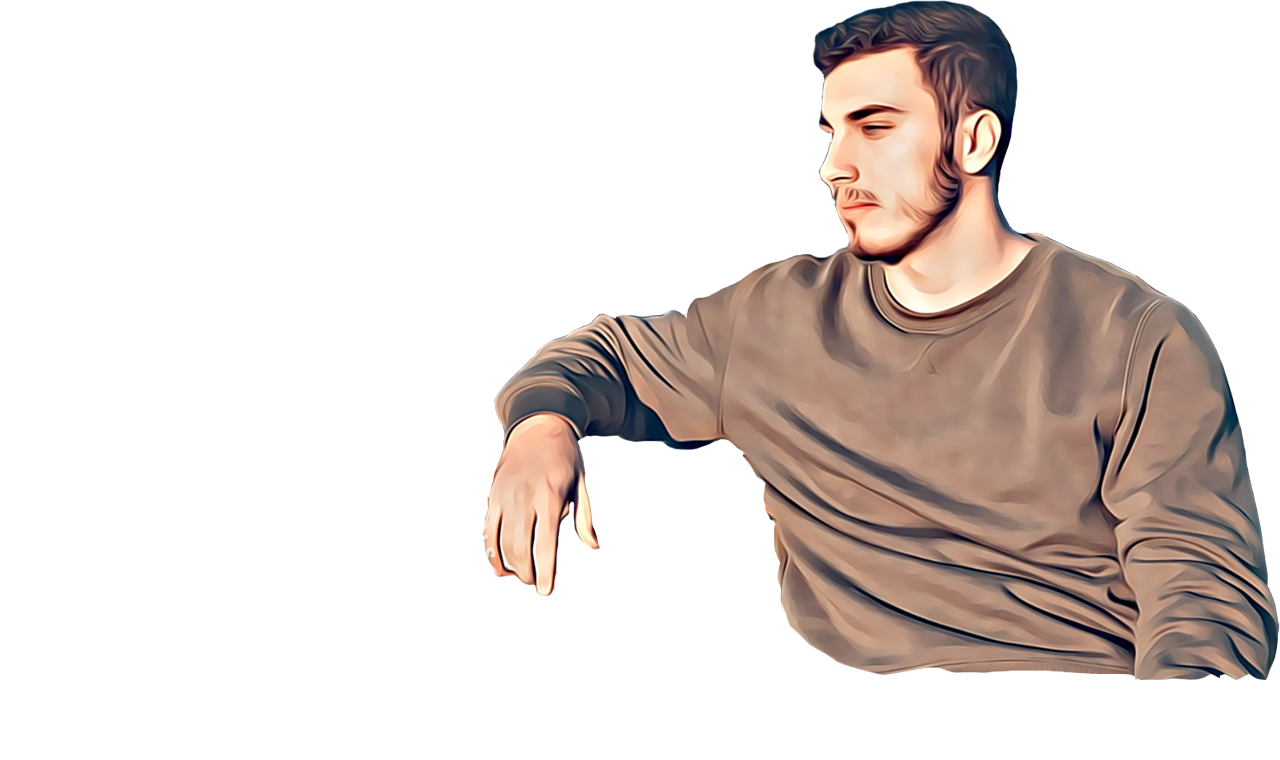
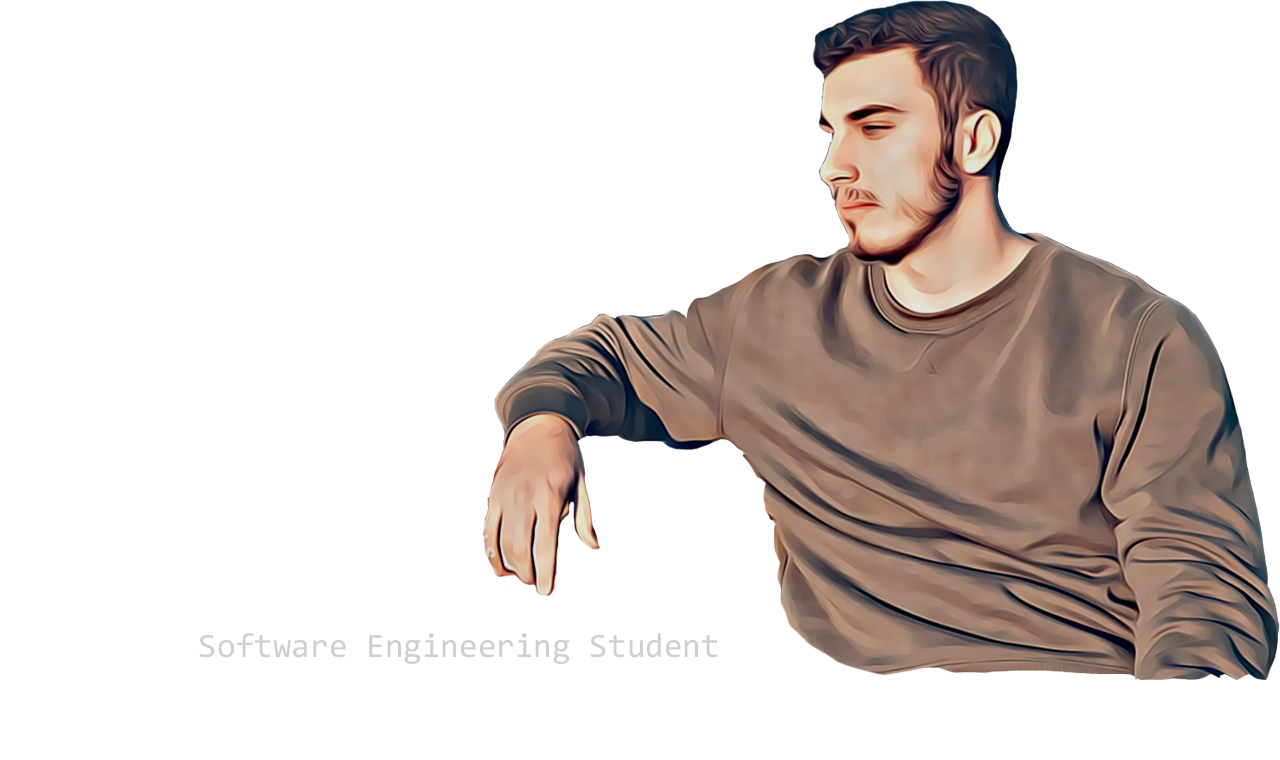
AddPhotos

diff --git a/index.html b/index.html
@@ -16,10 +16,14 @@
         <a href="https://www.instagram.com/zoljann/" target="_blank"><img src="images/icons/instagram.png" alt="instagram"></a>
         <a href="https://www.facebook.com/zolja123/" target="_blank"><img src="images/icons/facebook.png" alt="facebook"></a>
     </div>
-
     <div class="centerDiv">
       <section class="middlePart">
           <img src="images/me.png" alt="me" id="photo">
+          <div class="box">
+            <button>jedan</button>
+            <button>dva</button>
+            <button>tri</button>
+          </div>
           <p id="opis">eeeeeedit</p>
       </section>
     </div>

diff --git a/style.css b/style.css
@@ -16,7 +16,25 @@ body, html{
     display: table-cell;
     vertical-align: middle;
     text-align: center;
-    color:#FEFEFE;
+    color:#cfcfcf;
+}
+.box{
+    width: 320px;
+    height: 40px;
+    margin-left: auto;
+    margin-right: auto;
+    padding-top: 3%;
+}
+.box button{
+    font-size: 15pt;
+    width: 100px;
+    color:#cfcfcf;
+    background-color: #212121;
+    border: none;
+    border: 1px solid white;
+    border-radius: 15pt;
+    padding-top: 4%;
+    padding-bottom: 4%;
 }
 .logo img{
     position: absolute;
